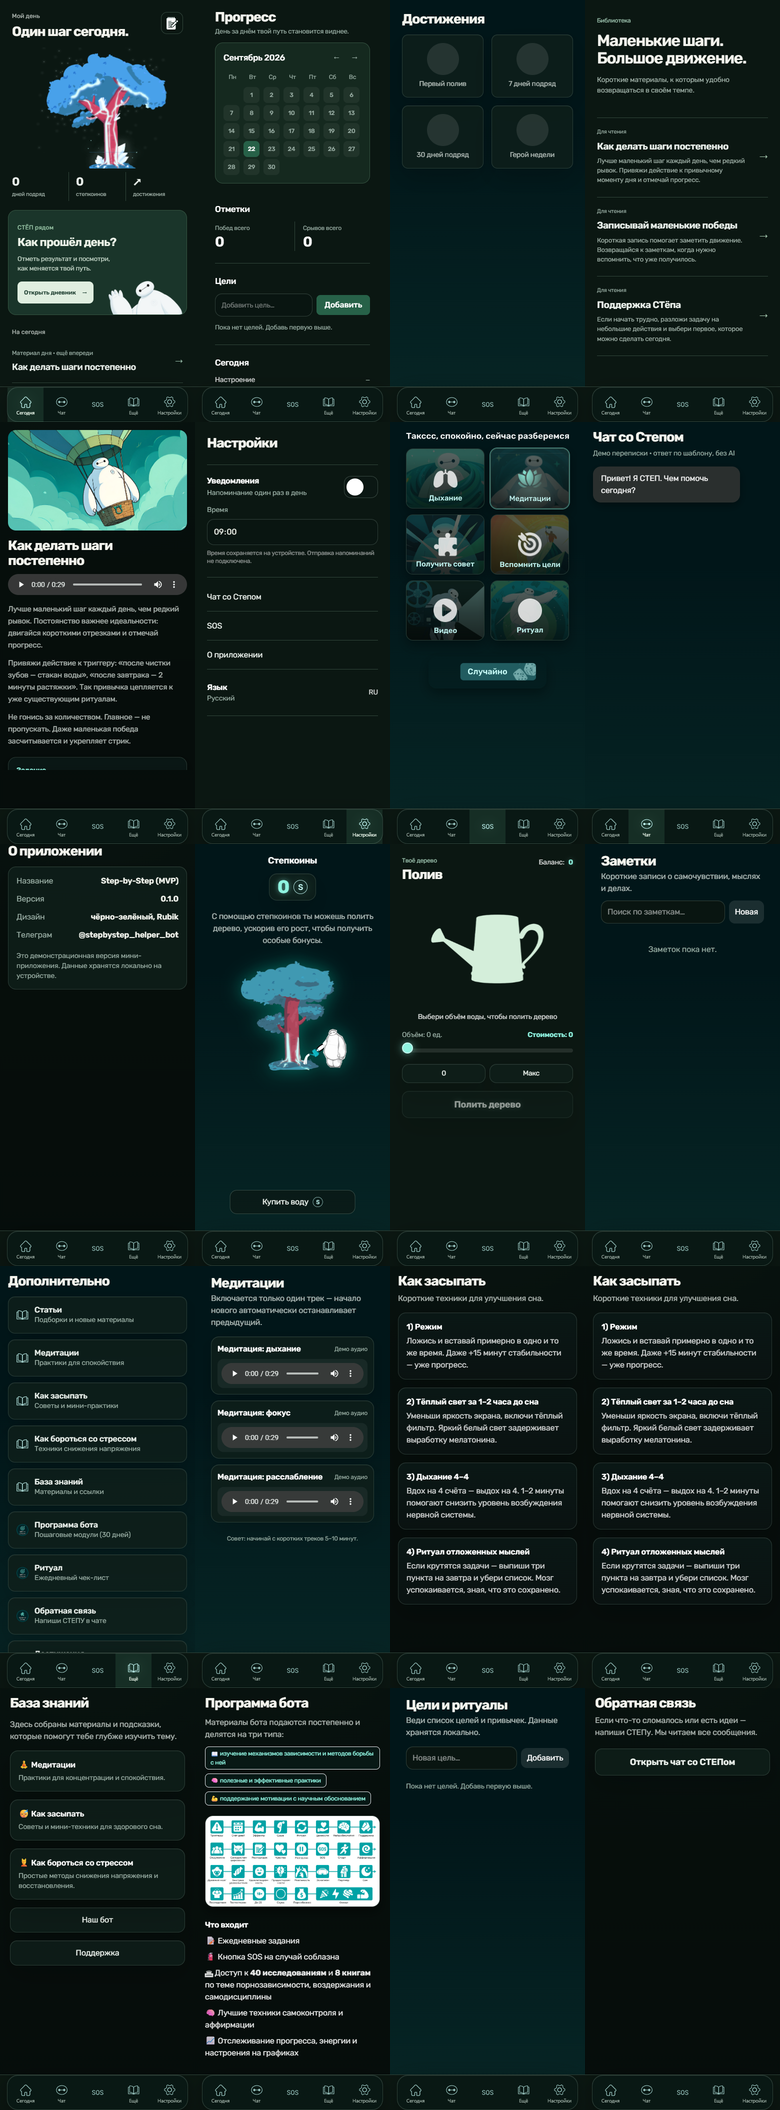
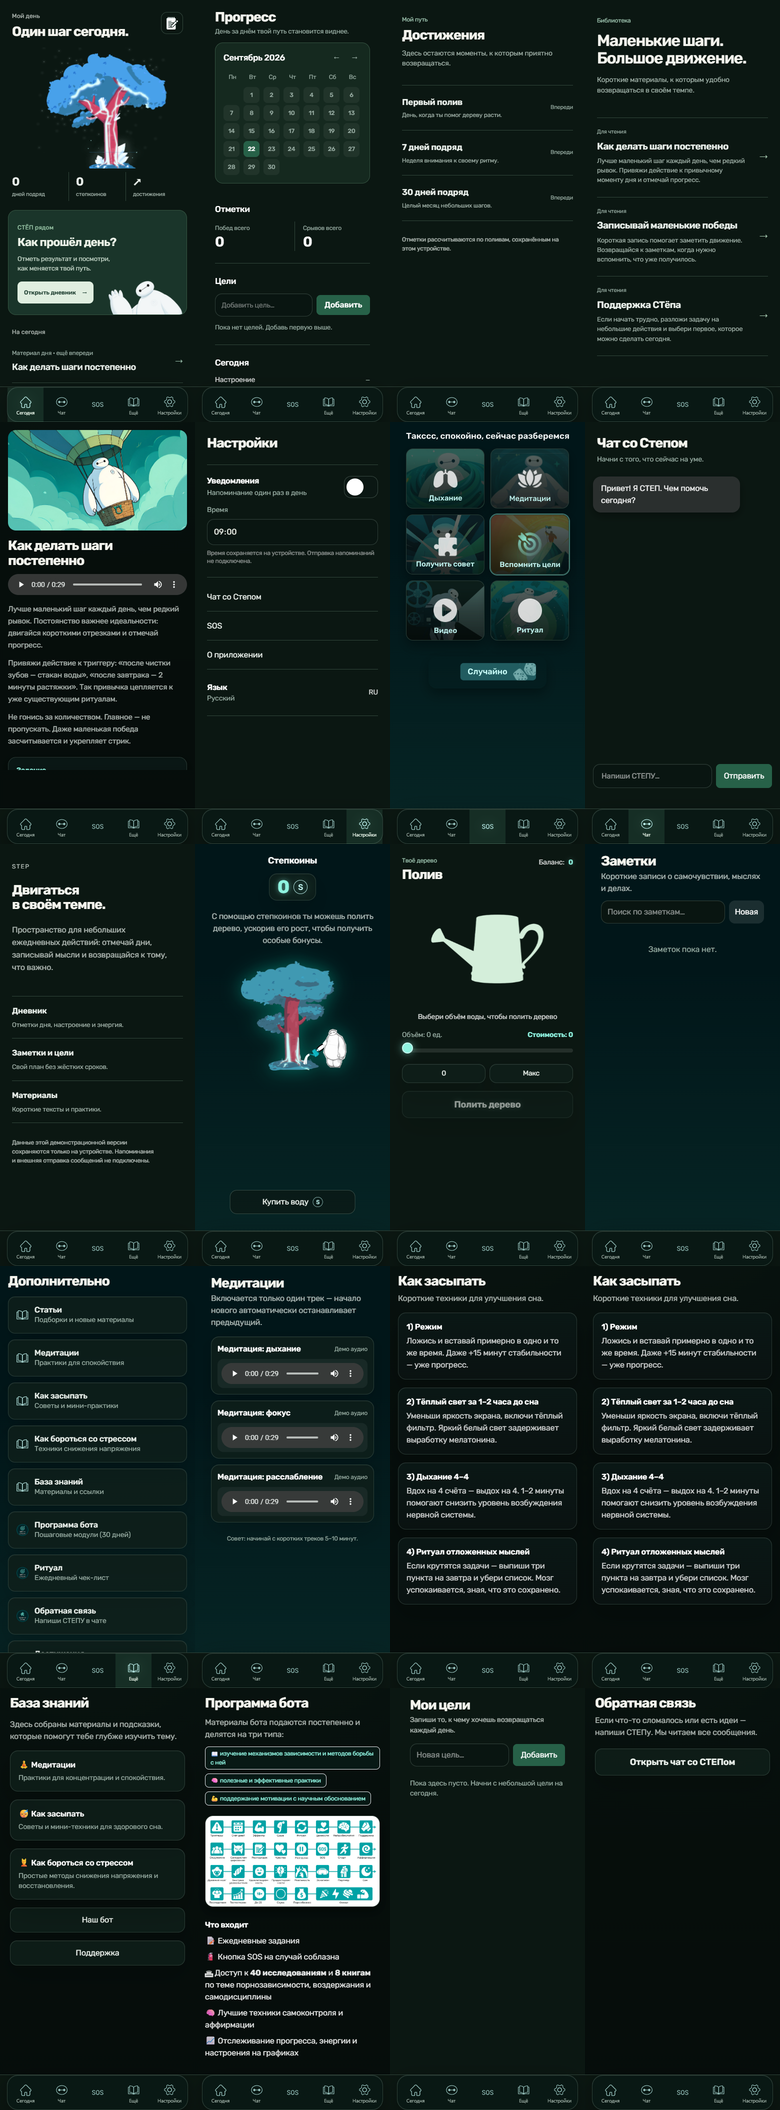
Audit STEP V2 at three widths and restore chat composer

diff --git a/VISUAL_REDESIGN_QUEUE_V2.md b/VISUAL_REDESIGN_QUEUE_V2.md
@@ -12,7 +12,7 @@ This is an **art-direction** ledger. `MASTER_CASE_QUEUE.md`, `PROJECT_PATHS.md` 
 | 06 | Пифпаф | pifpaf | IN PROGRESS | Reels placed before charts; dashboard QA 1440/768/390 and full V2 capture; secondary states still need art review |
 | 07 | GARMONY | garmony | IN PROGRESS | Actual Galant door detail replaces unrelated building crop; full door/menu/collections/form V2 capture checked |
 | 08 | AI Support + Webchat | support-rag | IN PROGRESS | Real webchat → Telegram → AI draft → operator response; original Telegram evidence re-sanitized and combined video refreshed, product art QA remains |
-| 09 | STEP | stepbystep | IN PROGRESS | Actual demo source: rebuilt home, articles, progress, settings, water visibility and bottom navigation; audited all 20 routes at 390; remaining screens and refreshed video pending |
+| 09 | STEP | stepbystep | IN PROGRESS | Actual demo source: rebuilt home, articles, progress, settings, water, goals, about, chat, achievements and navigation; audited 20 routes at 390/768/1440; remaining states and refreshed video pending |
 | 10 | Ритм | ritm | TODO | Violet/lime habit tracker, all screens |
 | 11 | LexLegal | lexlegal | TODO | Original legal site with clean presentation |
 | 12 | Татьяна | tatiana | TODO | Actual site, responsive and media polish |
